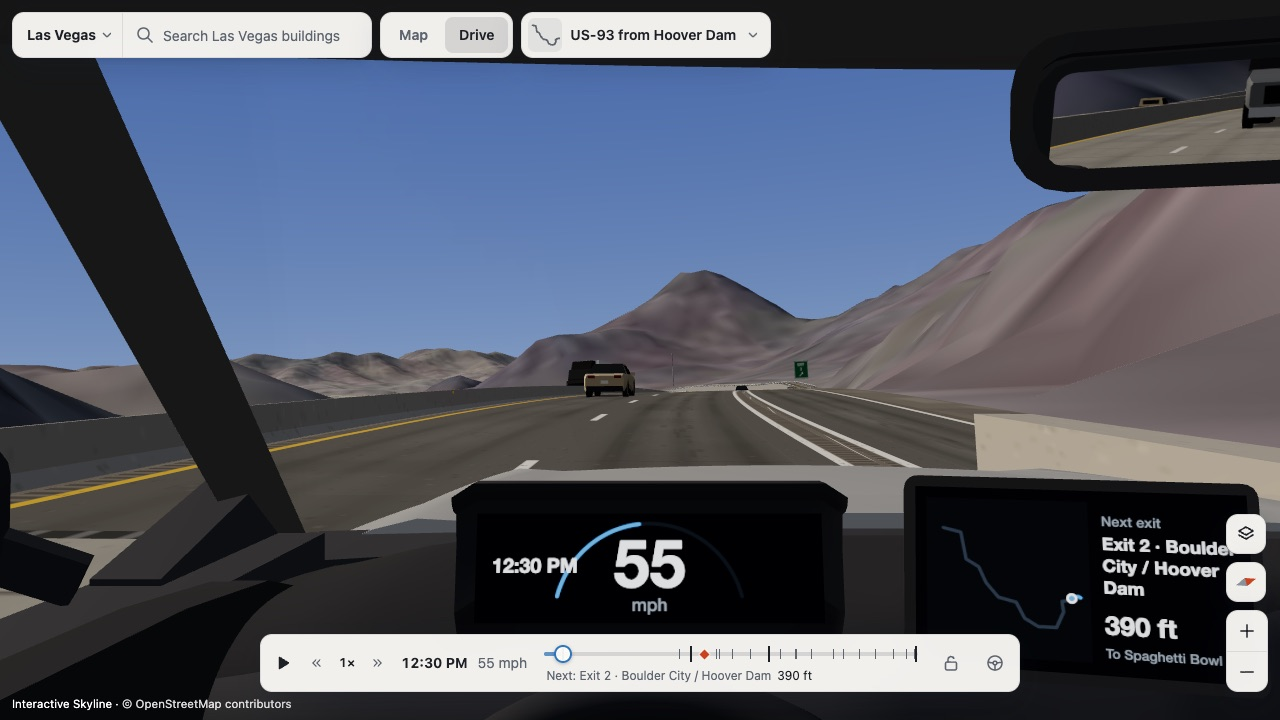
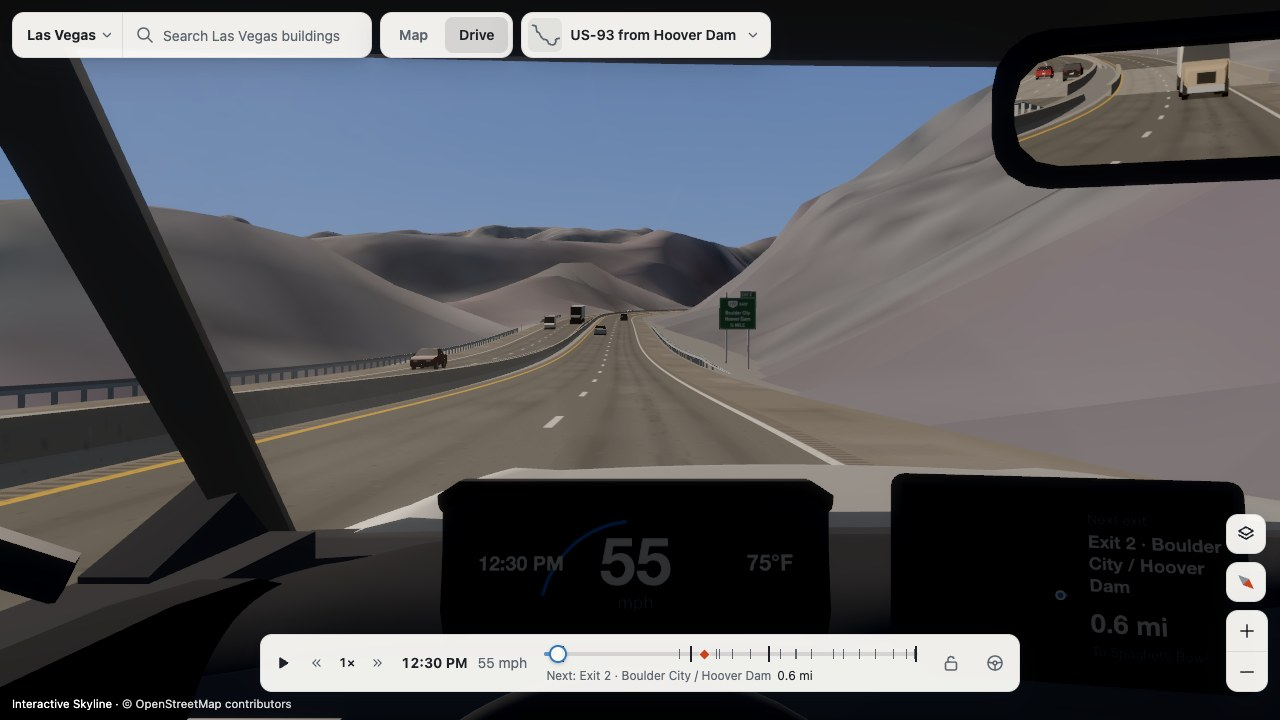
docs: the README's drive pictures on the new renderer, and what is real, chosen and missing
The eight pictures of the drive are taken again on the new renderer (dusk, night and heavy rain from the cabin
on I-15, US-93 near the dam, the clean view under the Spring Mountain Road sign, a billboard, the route picker,
a phone), with their captions. The paragraph on stand-ins is replaced: light and exposure are the app's and the
drive's light is measured in the frame; the night lift and the limit on a billboard's face are the drive's own
choices; the pavement's return under headlamps is assumed; the sky does not turn grey in rain, the night sky is
too bright and the city's glow is not fitted to satellite data.

diff --git a/README.md b/README.md
@@ -42,7 +42,7 @@ What you see:
 - **Traffic.** Sedans, crossovers, pickups, vans, tractor-trailers and coaches on both carriageways, as many as the 2025 counts give for that hour of that day of the week. Beyond 4 km they become a ribbon of light per lane, and the rest of the valley's freeways and main roads carry ribbons of their own.
 - **Night.** Your headlights light the road and make the signs and lane lines shine back. Street lamps light up through dusk, sodium ones warming up orange. Other vehicles carry head, tail and stop lamps. Towers over 61 m carry red obstruction lights, and the Sphere lights its surroundings.
 - **The car.** The default view is from the driver's seat of a generic crossover, with speed and time on the cluster, a route display, three working mirrors and a windshield that hazes around a low sun and oncoming lamps. The car rides the road's texture and the bridge joints. The clean view drops the car and puts the eye 1.2 m above the road.
-- **Rain.** Light rain, rain and heavy rain darken and gloss the road, put streaks of reflected lamps on it, grey out the distance and throw spray behind vehicles.
+- **Rain.** Light rain, rain and heavy rain darken and gloss the road, put streaks of reflected lamps on it, bead on the windshield under the wipers and throw spray behind vehicles. The rain is the app's weather: the real conditions for the chosen moment, or a preset.
 
 ![The same road at night: street lamps, tail lamps and the lit city](docs/drive-night.jpg)
 
@@ -50,9 +50,9 @@ What you see:
 
 ![US-93 by day, climbing out of Black Canyon after the Hoover Dam bridge](docs/drive-dam.jpg)
 
-![The clean view on I-15 south, an overhead guide sign before the Spaghetti Bowl](docs/drive-clean.jpg)
+![The clean view on I-15 south, under the overhead guide sign for Spring Mountain Road](docs/drive-clean.jpg)
 
-![A billboard beside I-15 with one of the made-up advertisements: "Pre Dented For You"](docs/drive-billboard.jpg)
+![A billboard beside I-15 with one of the made-up advertisements: "We Fix Hot", for Chillfizz Cooling](docs/drive-billboard.jpg)
 
 ### The three routes
 
@@ -103,8 +103,9 @@ The address bar follows the drive, so a link opens the same place, time, route, 
 - **Street lamps** are the agencies' own inventories (Clark County, the City of Las Vegas, Henderson, Boulder City), with OpenStreetMap's, and a rule only where no inventory reaches: 196,300 lamps, 13 % of them placed by rule (`data/derived/lv/lights_report.json`).
 - **Your headlamps' beams** are shaped by hand inside the test points of the US vehicle lighting standard (FMVSS 108), because the published survey of real beam patterns could not be fetched. Other vehicles' lamps take their intensities from the same standard's ranges.
 - **The car and the vehicles** are generic shapes with no badge or brand.
+- **Light and exposure** are the app's: the sky, the dusk and the exposure follow its clock, and the drive's lamps, beams, signs and screens are described in physical units (candela, lux, cd/m²) and measured in the rendered frame by the probes under `tests/manual/`. Two things are the drive's own choices about the picture, not measurements: at night it lifts the dark parts of the frame so that the road reads as it does to a driver's eye (up to twice, leaving lit windows and signs where they are), and a billboard's face is drawn no brighter than the display can show in colour. How strongly pavement throws headlight back toward the driver (15 mcd/m²/lx for asphalt, 25 for concrete) is assumed, within published bounds.
 
-Stand-ins until the sky and weather plan (plan 01) lands: the dusk is a blend between the app's day and night looks by the sun's height, the exposure is fixed (lights are described in physical units and mapped to the scene by one constant per unit), and the rain is four presets rather than real weather. The city's glow is not yet fitted to satellite night lights.
+Not there yet: the sky does not turn grey in rain (rain on the road and on the glass is the drive's own until the app draws rain itself), the night sky is brighter than it should be, and the city's glow is not fitted to satellite night lights.
 
 The plan behind all this, with what is done and what is not, is `docs/plans/02-vegas-drive.md`.
 
